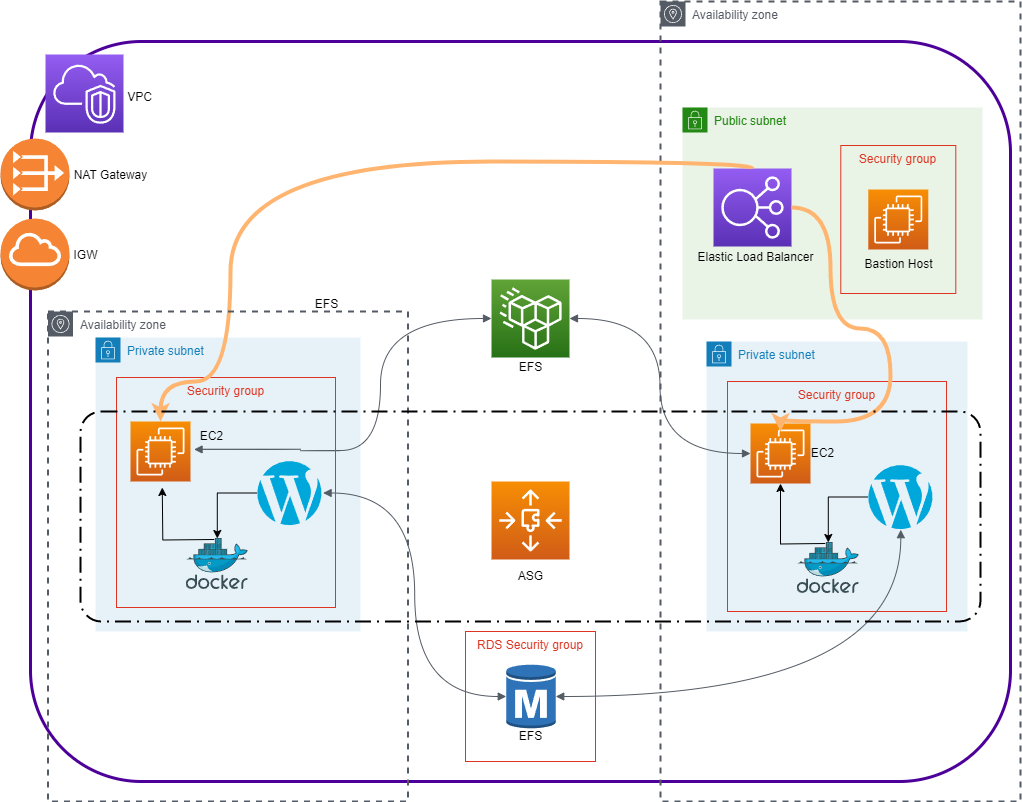
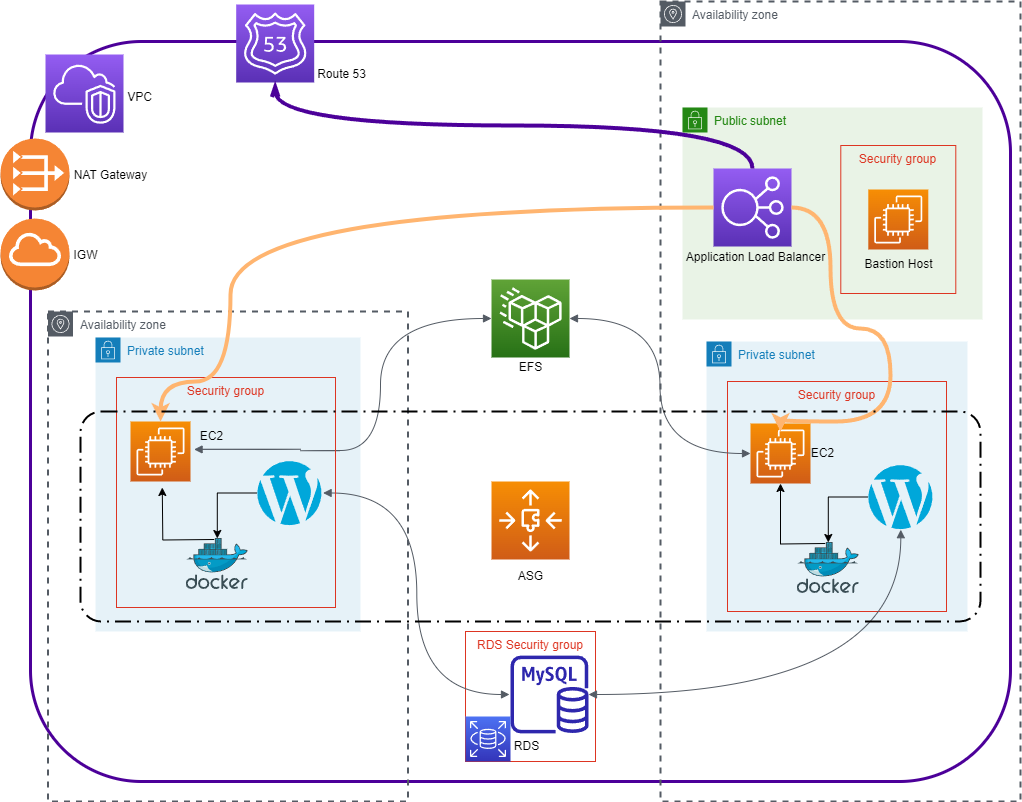
Correção da imagem e criação do readme da aplicação

diff --git a/README.md b/README.md
@@ -1,18 +1,23 @@
-# **Projeto Docker + AWS + Wordpress - Compass.UOL**
+# **Projeto Wordpress escalável e de alta disponibilidade com Docker e AWS - Compass.UOL**
 **Objetivo** <br>
-Esse projeto tem como objetivo realizar o estudo do provisionamento de instâncias EC2 através de user_data.sh, provisionamento do serviço Wordpress através de um container Docker, configurar um Application Load Balancer (ALB) para realizar o balanço de requisições em multiplas Regiões de Disponibilidade num Auto Scaling Group (ASG). E, também, configurar um Amazon Relational Database Service (AWS RDS) para gerenciar  os arquivos privados do Wordpress num volume EFS.
+O presente projeto, tem como objetivo ser um exercício prático de implementação de uma plataforma Wordpress que foi pensada para ser altalmente escalável e de alta disponibilidade, provisionada sob a infraestrutura da AWS com uso de Docker.
 
-## **Requisitos**
+**Arquitetura** <br>
 
-1. AWS CLI Instalado e Configurado.
-2. Conhecimento em Redes.
-3. Conhecimento em Docker e Docker-compose.
-4. Conhecimento do Sistema Operacional Linux.
-5. Conhecimento de AWS CLI e GUI.
+A arquitetura da plataforma é estabelecida sobre uma VPC na AWS onde permitira a conversa via rede de todos componentes de forma segura e restrita. Esta VPC é disponibilizada em várias AZ, permitindo um nível de segurança maior. Nela, há subnets públicas e privadas, que implementará mais um nível de segurança através do emprego de Bastion Host na subnet pública comunicando as instâncias que sustentam o sistema Wordpress nas subnets privadas.
 
-<br>
+Para a comunicação exterior à VPC, é usado um Internet Gateway que dá acesso à rede ao Bastion Host, que uma vez acessando as instâncias privadas, tem acesso à internet para download de pacotes através do NAT Gateway(este apesar de conceder acesso às subnets privadas está conectado à uma subnet pública).
+
+Toda estrutura é protegida por firewalls, neste caso, usamos os Security Groups, porém poderíamos também fazer uso de Networks ACLs. As instâncias que suportam o Wordpress(instâncias privadas) se encontram em subnets privadas e com isto também em Security Groups isolados pois o Bastion Host possui um Security Group exclusivo que permite o acesso à rede externa.
+
+As instâncias privadas se conectam à um volume EFS para armazenamento de metadados e dados estáticos do Wordpress, importante notar que todas instâncias se conectam, neste caso, à um único volume EFS.
+
+Para persistência dos dados gerais do Wordpress é usado uma instância MySQL no RDS, por questões de segurança este RDS possuí um Security Group exclusivo, onde é liberado acesso somenta aos Security Groups privados, por consequência, acesso apenas às instâncias privadas.
+
+Por uma questão de disponibilidade, empregamos um Application Load Balancer que distribui as requisições à todas instâncias privadas. Um ponto interessante é que o Application Load Balancer distribui as requisições para instâncias que estão em Subnets privadas, porém ele está ligado à Subnet pública para ser disponibilizado para a internet através do Internet Gateway. O Application Load Balancer também está ligado ao Route 53 para disponibilização de DNS.
+
+Toda estrutura das instâncias privadas são gerenciadas pelo Auto Scaling Group que aumenta e diminui a quantidade de instâncias privadas de acordo com a necessidade. O Auto Scaling Group se comunica com o Application Load Balancer para que o roteamento de requisições se adapte à quantidade de instâncias privadas operando em cada momento.
 
 ## **Arquitetura AWS**
-
 
 ![Diagrama da arquitetura](static/diagram.png)
